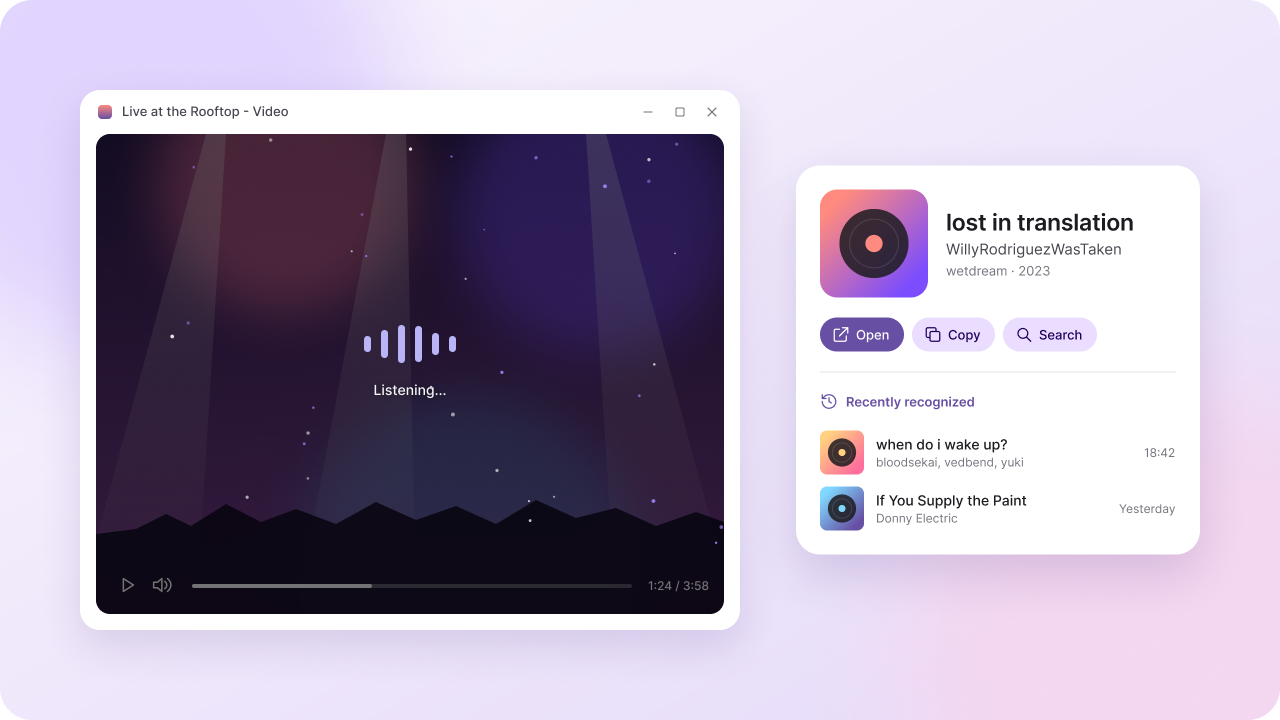
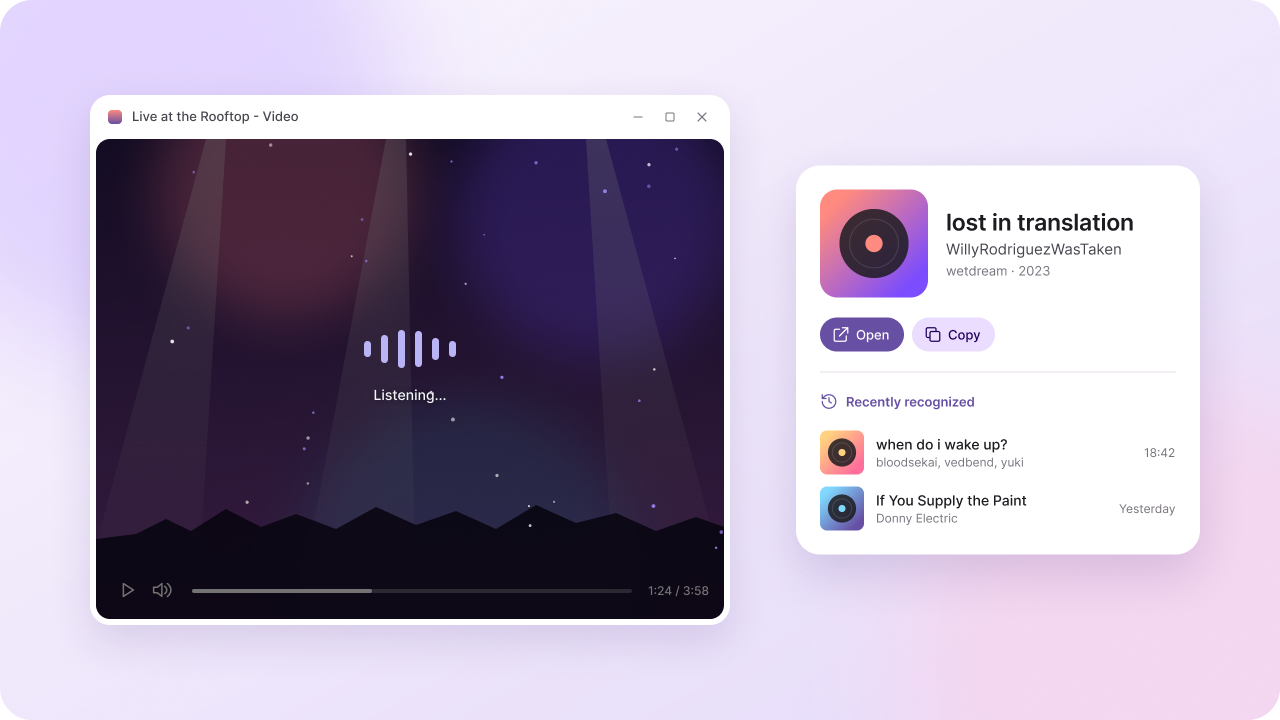
readme fix

diff --git a/README.md b/README.md
@@ -1,14 +1,14 @@
 <div align="center">
   <picture>
-    <source media="(prefers-color-scheme: dark)" srcset=".github/logo_for_dark.svg">
-    <source media="(prefers-color-scheme: light)" srcset=".github/logo_for_light.svg">
-    <img alt="CircleFlow" src=".github/logo_for_light.svg">
+    <source media="(prefers-color-scheme: dark)" srcset=".github/ico_for_dark.svg">
+    <source media="(prefers-color-scheme: light)" srcset=".github/ico_for_light.svg">
+    <img alt="CircleFlow" src=".github/ico_for_light.svg" width="10%">
   </picture>
 </div>
 
-# CircleFlow
+<h1 align="center">CircleFlow</h1>
 
-<h3>Circle anything on screen. Results are ready before you let go.</h3>
+<h3 align="center">Circle anything on screen. Results are ready before you let go.</h3>
 
 <p align="center"><img src=".github/peenar.gif" width="580"></p>
 
@@ -28,7 +28,7 @@ Just press a shortcut. No screenshots to save, no tabs to open.
 ### Text & Translation
 <img src=".github/feature_text-translation.png" width="600">
 
-- Select text anywhere on screen to copy it or search it with Google, Bing, [DuckDuckGo](https://duckduckgo.com/), [Kagi](https://kagi.com/), [Qwant](https://www.qwant.com/) or [Startpage](https://www.startpage.com/)
+- Select text anywhere on screen to copy it or search it with [Google](https://www.google.com/), [Bing](https://www.bing.com/), [DuckDuckGo](https://duckduckgo.com/), [Kagi](https://kagi.com/), [Qwant](https://www.qwant.com/) or [Startpage](https://www.startpage.com/)
 - Translate on-screen text with Google Translate
 - Text recognition uses the OCR languages installed in Windows
 
@@ -37,25 +37,26 @@ Just press a shortcut. No screenshots to save, no tabs to open.
 <img src=".github/feature_music.png" width="600">
 
 - Recognize the song playing on your PC with Shazam
-- Listens to system audio, the microphone is not used
+- Listens to system audio, not the microphone
 - Copy track info or open it in Shazam
-- History of recognized tracks
+- Keeps a history of recognized tracks
 
 
-### Selection toolbar
+### Selection Toolbar
 <img src=".github/feature_selection-toolbar.png" width="600">
 
 - Search the selected area, ask Gemini about it, copy or save it as an image, or translate it
 - Choose which actions appear in Settings
 
 
-### Shortcuts
-<img src=".github/feature_shortcuts.png" width="600">
+### Usage
+<img src=".github/textsearch.gif" width="600">
 
 - Opens with <kbd>Ctrl</kbd>+<kbd>Alt</kbd>+<kbd>Space</kbd> by default
-- Hold the <kbd>LMB</kbd> and circle to search
-- Hold the <kbd>RMB</kbd> and circle to ask, copy, save or translate
-- Hold <kbd>Alt</kbd> with the left button to circle over text instead of selecting it
+- Hold <kbd>LMB</kbd> and circle to search
+- Hold <kbd>RMB</kbd> and circle to ask, copy, save or translate
+- Hold <kbd>Alt</kbd>+<kbd>LMB</kbd> to circle over text instead of selecting it
+- Drag across text to select it like in a document, then copy or search it
 - <kbd>Esc</kbd> closes the selection or cancels the current action
 
 ## Install
@@ -66,7 +67,7 @@ Download [`CircleFlow-win-Setup`](https://github.com/keekyslusus/CircleFlow/rele
 ## Requirements
 
 - Windows 10 v2004+, x64.
-- [`Microsoft Edge WebView2 Runtime`](https://developer.microsoft.com/en-us/microsoft-edge/webview2/#download) for the built-in browser. Recent versions of Windows 10/11 already include it.
+- [Microsoft Edge WebView2 Runtime](https://developer.microsoft.com/en-us/microsoft-edge/webview2/#download) for the built-in browser. Recent versions of Windows 10/11 already include it.
 
 
 ## License
